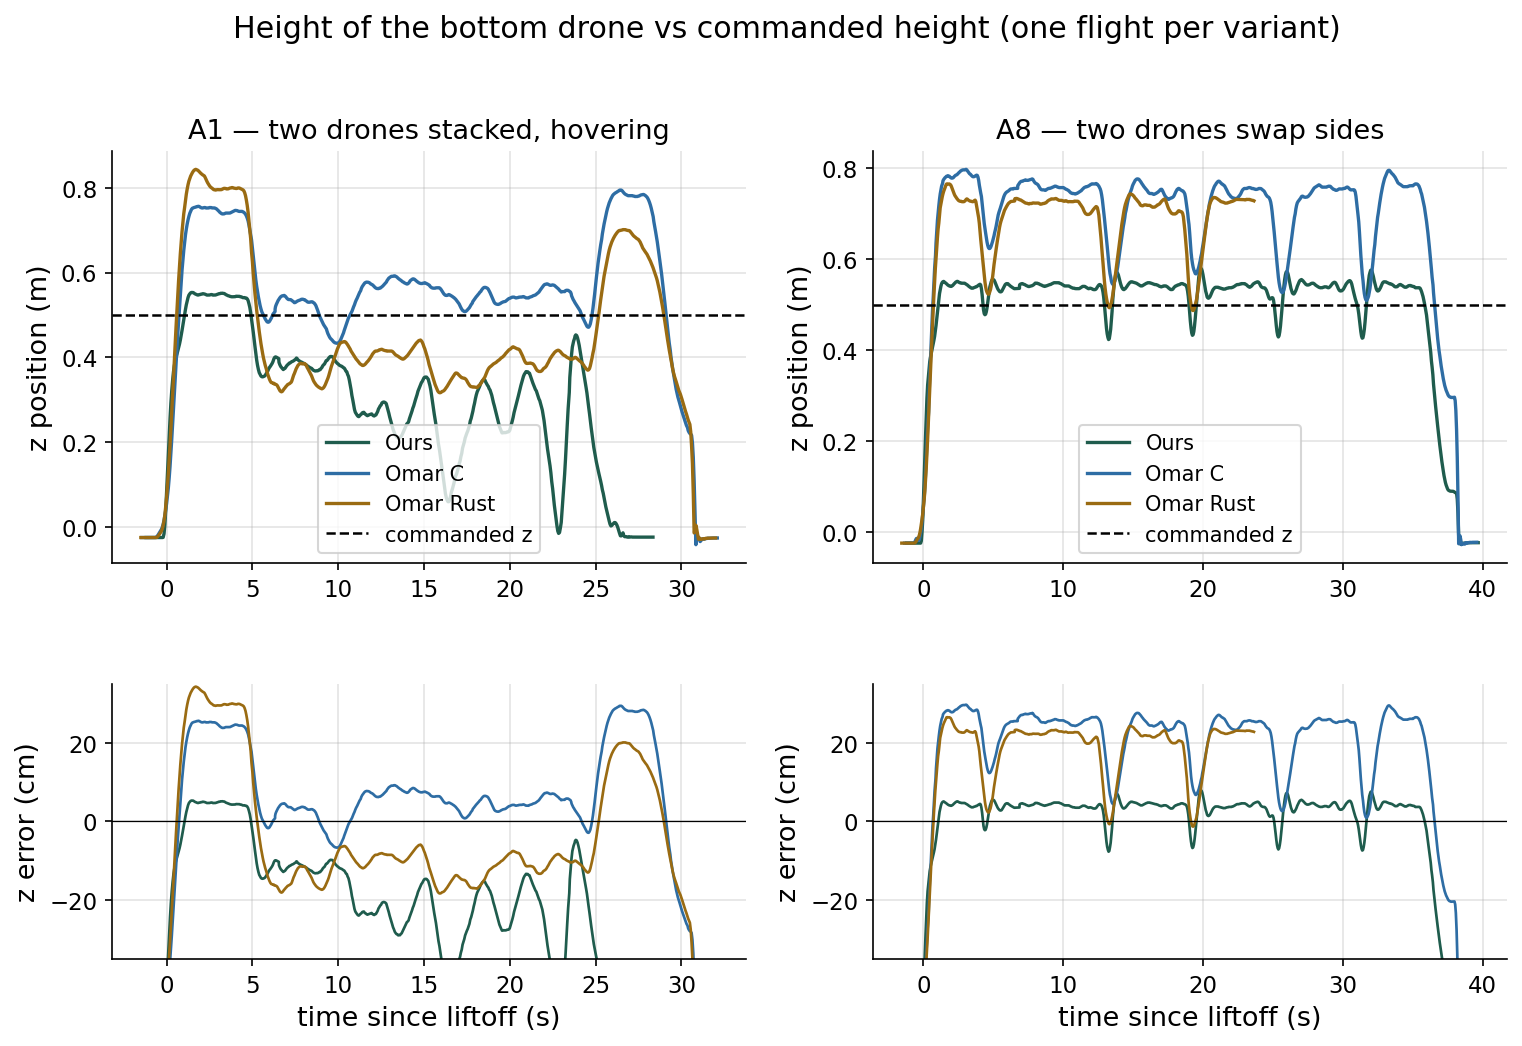
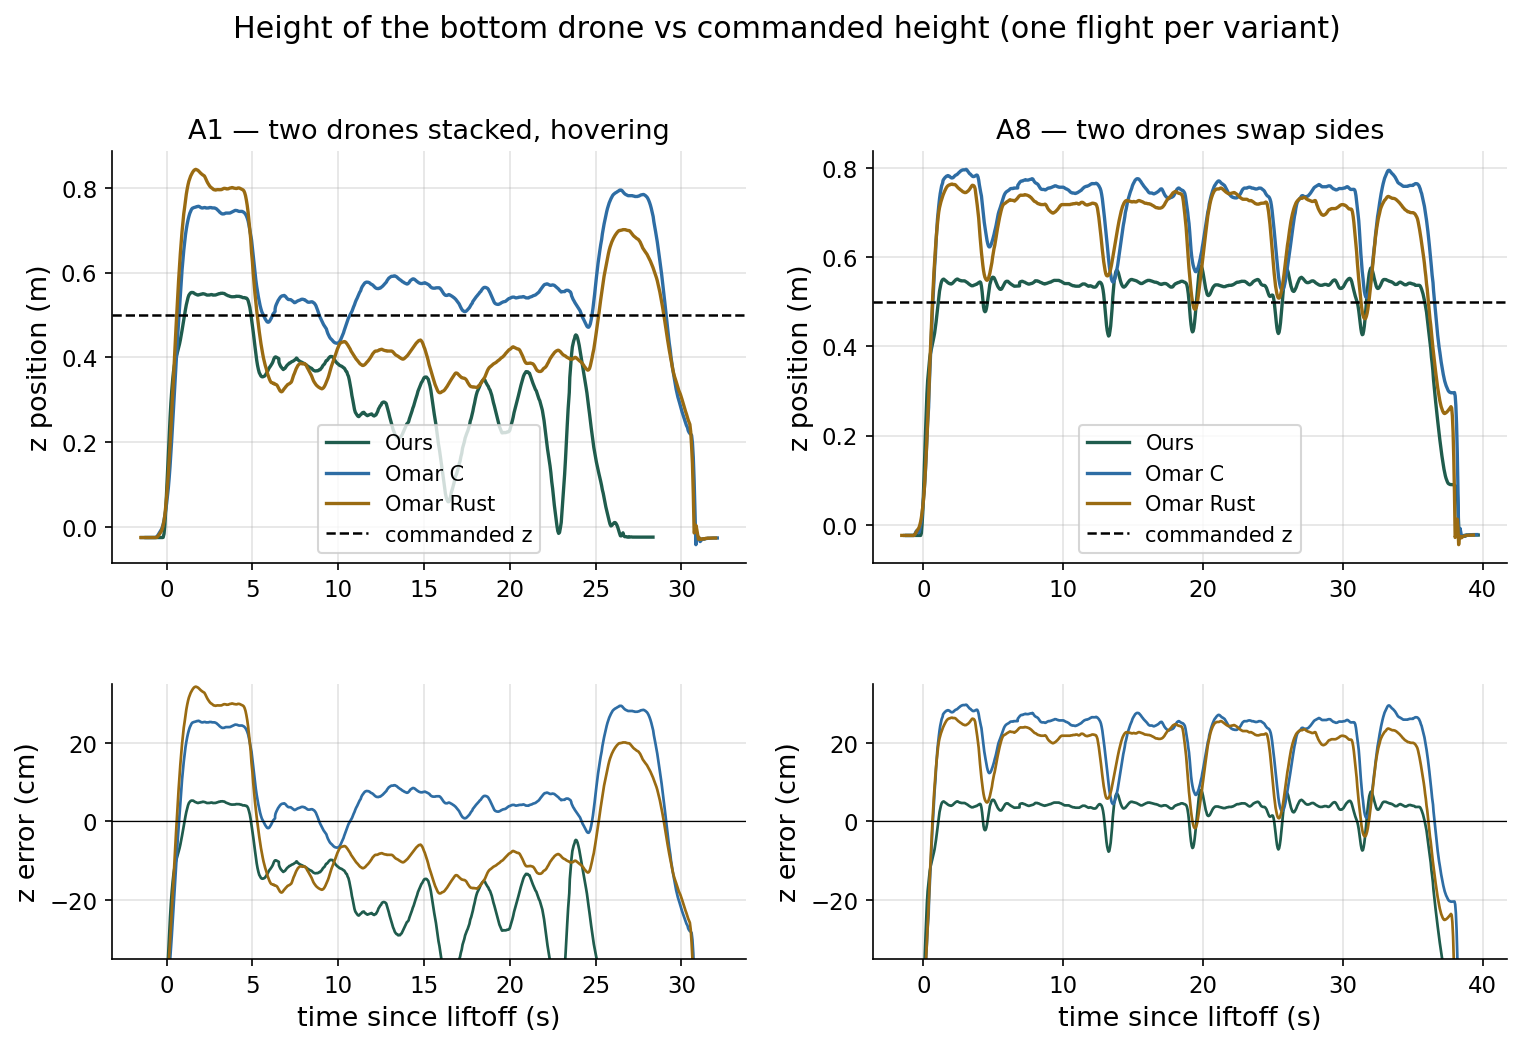
Meeting 2026-10-03: INDI plot uses complete flights only (Omar Rust A8 now 18-45-09); truncated radio logs flagged in table

diff --git a/experiments/analysis/meeting_simple_indi_z.py b/experiments/analysis/meeting_simple_indi_z.py
@@ -61,6 +61,7 @@ class IndiRow:
     t_steady_lo: float
     t_steady_hi: float
     duration_s: float
+    ends_in_air: bool = False  # radio log stops while the drone is still airborne (truncated log)
 
 
 def flight_stamp(path: Path) -> str:
@@ -116,13 +117,14 @@ def analyze_cf5(path: Path) -> IndiRow | None:
         err = (z[mask] - z_cmd) * 100.0
         err_cm = float(np.mean(err))
         max_abs = float(np.max(np.abs(err)))
+    ends_air = bool(z[-1] > 0.15)
     return IndiRow(
-        path, scen, var, flag, err_cm, max_abs, max_tilt, t_lift, z_cmd, t_lo, t_hi, dur,
+        path, scen, var, flag, err_cm, max_abs, max_tilt, t_lift, z_cmd, t_lo, t_hi, dur, ends_air,
     )
 
 
 def pick_representative(rows: list[IndiRow]) -> IndiRow | None:
-    clean = [r for r in rows if r.flag == "clean" and np.isfinite(r.mean_err_cm)]
+    clean = [r for r in rows if r.flag == "clean" and np.isfinite(r.mean_err_cm) and not r.ends_in_air]
     if not clean:
         return None
     med = float(np.median([r.mean_err_cm for r in clean]))
@@ -190,7 +192,7 @@ def main() -> None:
         "",
         "## Steady window",
         f"- Liftoff: pos_z > 0.05 m; steady = liftoff + {STEADY_AFTER_LIFTOFF_S} s … hold end (A1: param_hold; A8: duration_s − 2.5 s); tilt ≤ {TILT_EXCLUDE_DEG}°.",
-        "- Representative plot: **clean** flight closest to variant median mean error; legend time = HH-MM-SS stamp.",
+        "- Representative plot: **clean, complete** flight (log ends on the ground) closest to variant median mean error; legend time = HH-MM-SS stamp.",
         "- **pre-fix:** 18-57-49, 18-59-17 (ki_z=16 tumbles). **aborted:** 19-08-13 (~18 s). **crashed (flip/abort):** 18-22-05 or tilt≈180°.",
         "- **completed, tilt excursion >45°:** flight ran but peak |roll|/|pitch| > 45° (e.g. 18-23-23, 18-48-33).",
         "",
@@ -198,12 +200,12 @@ def main() -> None:
         "- Full trace shows **pos_z near 0 m** after the hold window; this is **post-scenario landing / ground contact** on the radio log (A1 hold ends ~15 s after liftoff; landing follows).",
         "- **Mean/max in the table use only the steady window** (tilt ≤ 25°, before landing); the dips are **not** included in those statistics.",
         "",
-        "| scenario | variant | flight | flag | mean z error (cm) | max |z error| (cm) | max tilt (°) |",
-        "|---|---|---|---|---:|---:|---:|",
+        "| scenario | variant | flight | flag | log | mean z error (cm) | max |z error| (cm) | max tilt (°) |",
+        "|---|---|---|---|---|---:|---:|---:|",
     ]
     for r in sorted(rows, key=lambda x: (x.scenario, x.variant, x.path.name)):
         md.append(
-            f"| {r.scenario} | {r.variant} | `{r.path.name}` | {r.flag} | "
+            f"| {r.scenario} | {r.variant} | `{r.path.name}` | {r.flag} | {'ends in air (truncated)' if r.ends_in_air else 'complete'} | "
             f"{r.mean_err_cm:.2f} | {r.max_abs_err_cm:.2f} | {r.max_tilt_deg:.1f} |"
         )
     md.append("")

diff --git a/experiments/analysis/out/meeting_2026-10-03/table_indi_z_error.md b/experiments/analysis/out/meeting_2026-10-03/table_indi_z_error.md
@@ -2,7 +2,7 @@
 
 ## Steady window
 - Liftoff: pos_z > 0.05 m; steady = liftoff + 6.0 s … hold end (A1: param_hold; A8: duration_s − 2.5 s); tilt ≤ 25.0°.
-- Representative plot: **clean** flight closest to variant median mean error; legend time = HH-MM-SS stamp.
+- Representative plot: **clean, complete** flight (log ends on the ground) closest to variant median mean error; legend time = HH-MM-SS stamp.
 - **pre-fix:** 18-57-49, 18-59-17 (ki_z=16 tumbles). **aborted:** 19-08-13 (~18 s). **crashed (flip/abort):** 18-22-05 or tilt≈180°.
 - **completed, tilt excursion >45°:** flight ran but peak |roll|/|pitch| > 45° (e.g. 18-23-23, 18-48-33).
 
@@ -10,24 +10,24 @@
 - Full trace shows **pos_z near 0 m** after the hold window; this is **post-scenario landing / ground contact** on the radio log (A1 hold ends ~15 s after liftoff; landing follows).
 - **Mean/max in the table use only the steady window** (tilt ≤ 25°, before landing); the dips are **not** included in those statistics.
 
-| scenario | variant | flight | flag | mean z error (cm) | max |z error| (cm) | max tilt (°) |
-|---|---|---|---|---:|---:|---:|
-| A1 | Omar C | `A1_cf5_2026-10-02_18-36-18.csv` | clean | 3.51 | 9.21 | 30.6 |
-| A1 | Omar C | `A1_cf5_2026-10-02_18-37-33.csv` | clean | 2.36 | 6.31 | 22.8 |
-| A1 | Omar Rust | `A1_cf5_2026-10-02_18-48-33.csv` | completed, tilt excursion >45° | -6.98 | 12.33 | 62.9 |
-| A1 | Omar Rust | `A1_cf5_2026-10-02_18-50-20.csv` | clean | -11.31 | 18.08 | 38.1 |
-| A1 | Ours | `A1_cf5_2026-10-02_19-13-24.csv` | clean | -17.08 | 28.96 | 28.8 |
-| A1 | Ours | `A1_cf5_2026-10-02_19-15-47.csv` | clean | -19.22 | 38.18 | 39.4 |
-| A8 | Omar C | `A8_cf5_2026-10-02_18-22-05.csv` | crashed (flip/abort) | nan | nan | 180.0 |
-| A8 | Omar C | `A8_cf5_2026-10-02_18-23-23.csv` | completed, tilt excursion >45° | 19.36 | 25.12 | 55.8 |
-| A8 | Omar C | `A8_cf5_2026-10-02_18-24-57.csv` | clean | 22.94 | 27.61 | 33.8 |
-| A8 | Omar Rust | `A8_cf5_2026-10-02_18-45-09.csv` | clean | 20.18 | 25.51 | 33.4 |
-| A8 | Omar Rust | `A8_cf5_2026-10-02_18-46-45.csv` | clean | 18.90 | 24.32 | 33.7 |
-| A8 | Ours | `A8_cf5_2026-10-02_18-57-49.csv` | pre-fix | -1.59 | 94.89 | 168.9 |
-| A8 | Ours | `A8_cf5_2026-10-02_18-59-17.csv` | pre-fix | -52.40 | 52.40 | 169.7 |
-| A8 | Ours | `A8_cf5_2026-10-02_19-08-13.csv` | aborted | -8.10 | 51.45 | 17.9 |
-| A8 | Ours | `A8_cf5_2026-10-02_19-09-54.csv` | clean | 3.66 | 8.50 | 16.0 |
-| A8 | Ours | `A8_cf5_2026-10-02_19-11-30.csv` | clean | 3.57 | 7.96 | 11.3 |
+| scenario | variant | flight | flag | log | mean z error (cm) | max |z error| (cm) | max tilt (°) |
+|---|---|---|---|---|---:|---:|---:|
+| A1 | Omar C | `A1_cf5_2026-10-02_18-36-18.csv` | clean | complete | 3.51 | 9.21 | 30.6 |
+| A1 | Omar C | `A1_cf5_2026-10-02_18-37-33.csv` | clean | ends in air (truncated) | 2.36 | 6.31 | 22.8 |
+| A1 | Omar Rust | `A1_cf5_2026-10-02_18-48-33.csv` | completed, tilt excursion >45° | complete | -6.98 | 12.33 | 62.9 |
+| A1 | Omar Rust | `A1_cf5_2026-10-02_18-50-20.csv` | clean | complete | -11.31 | 18.08 | 38.1 |
+| A1 | Ours | `A1_cf5_2026-10-02_19-13-24.csv` | clean | complete | -17.08 | 28.96 | 28.8 |
+| A1 | Ours | `A1_cf5_2026-10-02_19-15-47.csv` | clean | complete | -19.22 | 38.18 | 39.4 |
+| A8 | Omar C | `A8_cf5_2026-10-02_18-22-05.csv` | crashed (flip/abort) | complete | nan | nan | 180.0 |
+| A8 | Omar C | `A8_cf5_2026-10-02_18-23-23.csv` | completed, tilt excursion >45° | complete | 19.36 | 25.12 | 55.8 |
+| A8 | Omar C | `A8_cf5_2026-10-02_18-24-57.csv` | clean | complete | 22.94 | 27.61 | 33.8 |
+| A8 | Omar Rust | `A8_cf5_2026-10-02_18-45-09.csv` | clean | complete | 20.18 | 25.51 | 33.4 |
+| A8 | Omar Rust | `A8_cf5_2026-10-02_18-46-45.csv` | clean | ends in air (truncated) | 18.90 | 24.32 | 33.7 |
+| A8 | Ours | `A8_cf5_2026-10-02_18-57-49.csv` | pre-fix | complete | -1.59 | 94.89 | 168.9 |
+| A8 | Ours | `A8_cf5_2026-10-02_18-59-17.csv` | pre-fix | complete | -52.40 | 52.40 | 169.7 |
+| A8 | Ours | `A8_cf5_2026-10-02_19-08-13.csv` | aborted | complete | -8.10 | 51.45 | 17.9 |
+| A8 | Ours | `A8_cf5_2026-10-02_19-09-54.csv` | clean | complete | 3.66 | 8.50 | 16.0 |
+| A8 | Ours | `A8_cf5_2026-10-02_19-11-30.csv` | clean | complete | 3.57 | 7.96 | 11.3 |
 
 ## Variant medians — clean only
 - **A1 / Ours:** n=2, median = -18.15 cm

diff --git a/docs/meetings/2026-10-03.md b/docs/meetings/2026-10-03.md
@@ -22,6 +22,7 @@ Since 2026-09-28 · deadline 26 Feb 2027 (~21 weeks)
 
 - Both Omar variants are ~20 cm too high on A8 (scenario, not a port bug). Ours needs `ki_z=0` (full INDI + Z-integral tumbles).
 - Fixed on the way: Omar Rust compiler bug (flies now), our full-INDI liftoff tumble.
+- Plots show the complete flight of each variant. Two of the 2 flights per cell have a radio log that stops early while airborne (Omar Rust A8 `18-46-45`, Omar C A1 `18-37-33`); they are marked "truncated" in the table and not plotted.
 - Per-flight table: `experiments/analysis/out/meeting_2026-10-03/table_indi_z_error.md` (n = 1–2 clean flights per cell).
 
 ![z of the bottom drone, INDI variants](assets/2026-10-03/fig_indi_z_tracking.png)
